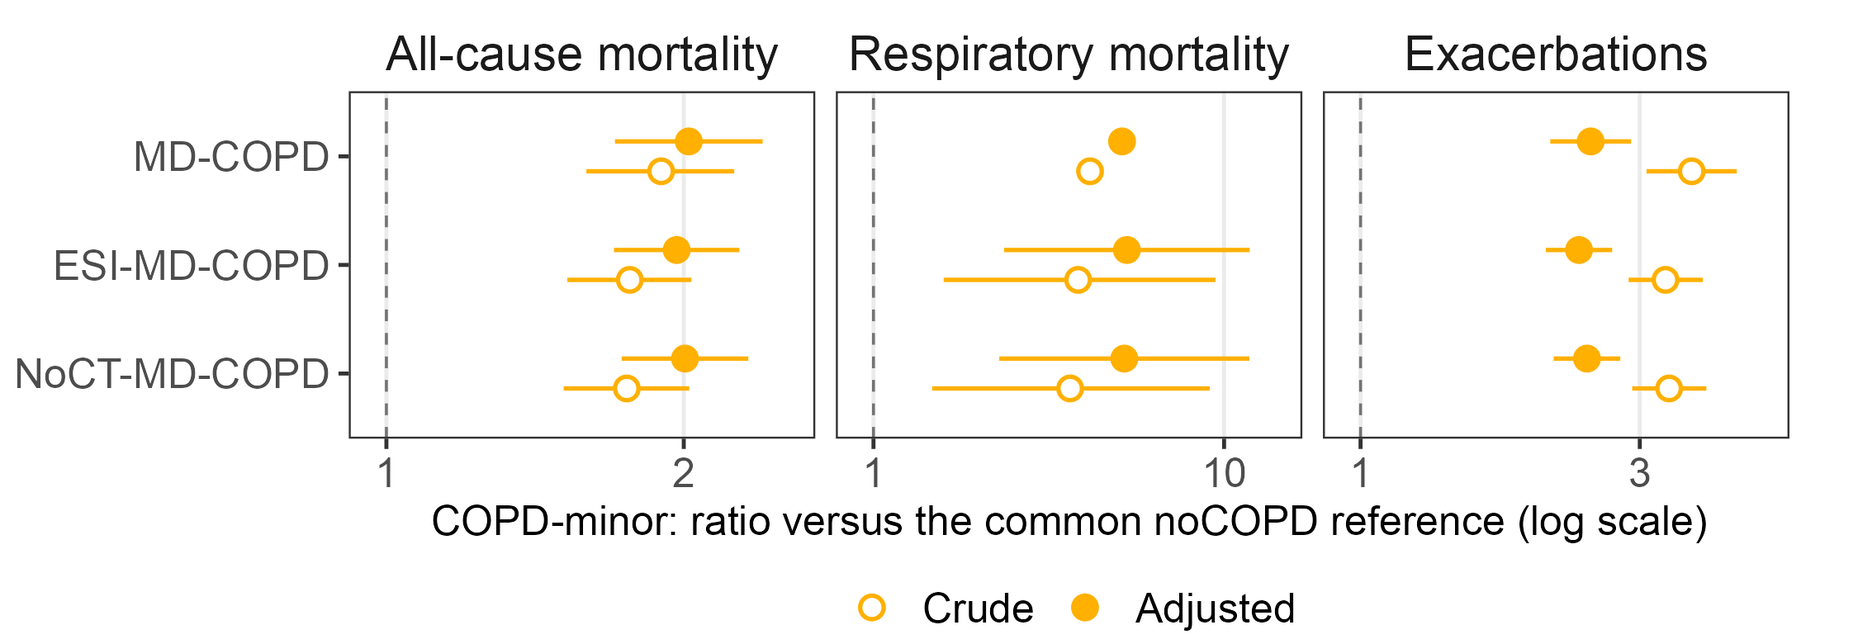
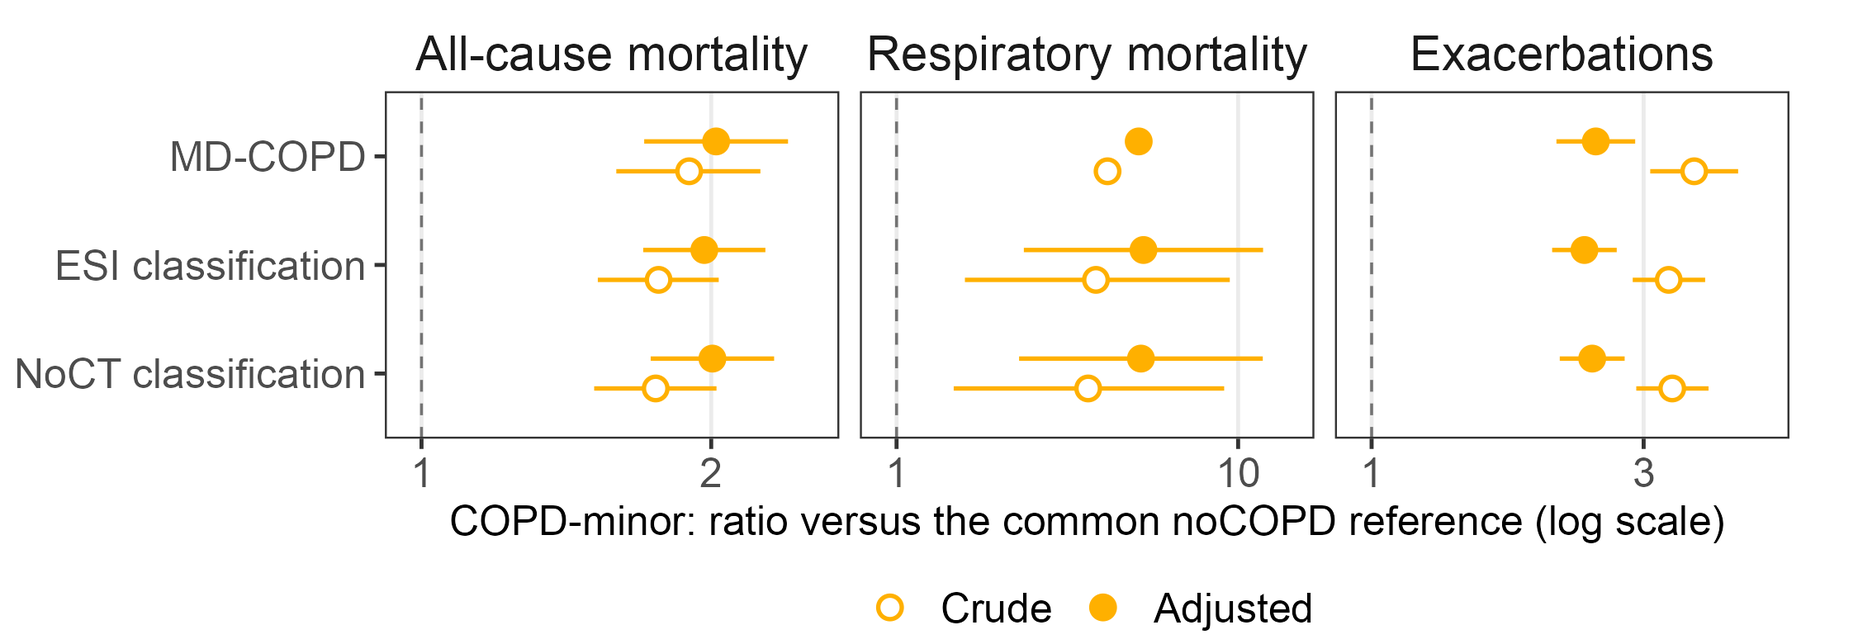
Rename the CT-free classifications: ESI classification, NoCT classification
At Pete's instruction, throughout the manuscript, supplement, tables and
figures. MD-COPD is unchanged.

The old names were proper nouns and the new ones need articles, so this was
not a find-replace. Pairs and lists were rewritten first ("for both the ESI and
NoCT classifications"), then phrases already carrying "classification", then
bare occurrences, which get "the" or, sentence-initially, "The". Every file
asserts no old name survives and no "the the" or "classification
classification" was produced. The first pass tripped that assertion on the
section heading "Cross tabulation of the ESI-MD-COPD and MD-COPD
classifications", which needed its own rule.

Two edits the rename forced in Pete's text: "that ESI-MD-COPD add to" became
"that the ESI classification adds to", and "Since the NoCOPD-MD-COPD subgroup
removes", a typo for NoCT, became "Since the NoCT classification removes".

The old names are now in prose_guard.DELETED, so a future rewrite that
reinstates one fails the build. OWNED fingerprints updated to match.

Both figures re-rendered through the layout validator with the longer labels
and checked visually. Zero old names in either built document.

verify.R: 164 claims, 0 failed. Its claim descriptions still use the old names;
they are internal and do not reach the paper.

diff --git a/ctfree/build_manuscript.py b/ctfree/build_manuscript.py
@@ -49,7 +49,7 @@ N_COL = {"all": "n_mort", "resp": "n_mort", "exac": "n_exac"}
 # Results. They replace the numbered "schema N" labels, which required the
 # reader to hold a lookup table to parse a sentence.
 SCHEMA_NAME = {"S1": "Fixed ratio", "S2": "MD-COPD",
-               "S3": "NoCT-MD-COPD", "S4": "ESI-MD-COPD"}
+               "S3": "NoCT classification", "S4": "ESI classification"}
 
 CLAIM_ID   = re.compile(r"\s*\{[A-Z][A-Za-z0-9-]*(?:,\s*[A-Z][A-Za-z0-9-]*)*\}")
 # Any bracketed bold line is an editorial provenance note, not prose.
@@ -213,9 +213,9 @@ def table1(doc):
          n("S1", "noCOPD"), "—", "—", n("S1", "COPD")],
         ["MD-COPD", "emphysema, wall thickening, dyspnea, SGRQ, chronic bronchitis (≥3)",
          n("S2", "noCOPD"), n("S2", "AFL-only"), n("S2", "COPD-minor"), n("S2", "COPD-major")],
-        ["NoCT-MD-COPD", "dyspnea, SGRQ, chronic bronchitis (≥2)",
+        ["NoCT classification", "dyspnea, SGRQ, chronic bronchitis (≥2)",
          n("S3", "noCOPD"), n("S3", "AFL-only"), n("S3", "COPD-minor"), n("S3", "COPD-major")],
-        ["ESI-MD-COPD", esi_desc,
+        ["ESI classification", esi_desc,
          n("S4", "noCOPD"), n("S4", "AFL-only"), n("S4", "COPD-minor"), n("S4", "COPD-major")]]
     add_table(doc, ["Classification", "Minor criteria", "noCOPD", "AFL-only",
                     "COPD-minor", "COPD-major"],
@@ -224,8 +224,8 @@ def table1(doc):
            f"The four classifications applied to the same {n_total:,} participants. "
            "The major criterion is post-bronchodilator FEV₁/FVC below 0.70 in all "
            "four, so no participant moves between the airflow-limitation categories "
-           "and the preserved-spirometry ones. MD-COPD is the reference NoCT-MD-COPD "
-           "and ESI-MD-COPD are compared against.")
+           "and the preserved-spirometry ones. MD-COPD is the reference the NoCT "
+           "and ESI classifications are compared against.")
 
 
 def table2(doc):
@@ -237,8 +237,8 @@ def table2(doc):
     cell = {(r["schema"], r["row_cat"], r["col_cat"]): int(r["n"]) for r in x}
 
     rows = []
-    for schema, name, f1key in (("S3", "NoCT-MD-COPD", "f1_noct"),
-                                ("S4", "ESI-MD-COPD", "f1_esi")):
+    for schema, name, f1key in (("S3", "NoCT classification", "f1_noct"),
+                                ("S4", "ESI classification", "f1_esi")):
         for i, rc in enumerate(O):
             rows.append([
                 name if i == 0 else "", rc,
@@ -271,7 +271,7 @@ def table3(doc):
     cru = {(r["schema"], r["category"], r["outcome"]): r
            for r in load("consensus_ref_crude.csv")}
     ref = load("consensus_ref_group.csv")[0]
-    NM = {"S2": "MD-COPD", "S3": "NoCT-MD-COPD", "S4": "ESI-MD-COPD"}
+    NM = {"S2": "MD-COPD", "S3": "NoCT classification", "S4": "ESI classification"}
     ORDER = ["AFL-only", "COPD-minor", "COPD-major"]
     FLAG = "\u2020"
 
@@ -327,8 +327,8 @@ def table3(doc):
            "race, current smoking status, pack-years and body mass index, with prior "
            "exacerbation frequency added for exacerbations. Respiratory deaths in "
            f"the AFL-only group were {int(afl['S2']['resp_deaths'])} under MD-COPD, "
-           f"{int(afl['S3']['resp_deaths'])} under NoCT-MD-COPD and "
-           f"{int(afl['S4']['resp_deaths'])} under ESI-MD-COPD. "
+           f"{int(afl['S3']['resp_deaths'])} under the NoCT classification and "
+           f"{int(afl['S4']['resp_deaths'])} under the ESI classification. "
            f"{FLAG} fewer than 10 events in the cell: the point estimate is given "
            "without an interval, which would convey precision the data do not "
            "carry. AFL-only, airflow limitation without other criteria; RR, rate "
@@ -337,7 +337,7 @@ def table3(doc):
 
 
 def table4(doc):
-    """Cross-classification of MD-COPD and ESI-MD-COPD, one panel per stratum.
+    """Cross-classification of MD-COPD and the ESI classification, one panel per stratum.
     The two strata are separate panels rather than one eight-row table because
     the reference group differs between them: participants both classifications
     call noCOPD where spirometry is preserved, and both call AFL-only where it
@@ -394,12 +394,12 @@ def table4(doc):
     pr = {k: load(f)[0] for k, f in
           (("ps", "discord_rates.csv"), ("afl", "discord_rates_afl.csv"))}
     legend(doc, "Table 4.",
-           "Participants cross-classified by MD-COPD and ESI-MD-COPD within each "
+           "Participants cross-classified by MD-COPD and the ESI classification within each "
            "stratum of airflow limitation, the only place the two can disagree. "
            "Among participants with preserved spirometry they disagree about "
            "whether COPD is present; among those with airflow limitation, about "
            "whether a diagnosis is given rather than withheld. CT-only-COPD is "
-           "what ESI-MD-COPD misses and ESI-only-COPD what it adds. All rates are "
+           "what the ESI classification misses and ESI-only-COPD what it adds. All rates are "
            "observed events per 100 person-years. Each panel is estimated against "
            "its own reference row, "
            f"{ref['ps']} and {ref['afl']}, so estimates are comparable within a "
@@ -594,7 +594,7 @@ def main():
              "This is the group a replacement criterion must reach among "
              "participants with preserved spirometry."),
             ("figure4_copdmajor.png", "COPD-major",
-             "Estimates are largest under NoCT-MD-COPD because that "
+             "Estimates are largest under the NoCT classification because that "
              "classification moved 833 of this group's members into AFL-only, "
              "leaving a smaller and more severe group behind.")], start=2):
         add_figure(doc, os.path.join(FIGS, png), f"Figure {i}.",

diff --git a/ctfree/build_supplement.py b/ctfree/build_supplement.py
@@ -121,7 +121,7 @@ def cell_n(rows, schema, row_cat, col_cat):
 def s3_crossclass(doc):
     heading(doc, "Supplemental Table S9. Reclassification against the CT-based framework")
     x = load(ASSETS, "crossclass.csv")
-    nm = {"S3": "NoCT-MD-COPD", "S4": "ESI-MD-COPD"}
+    nm = {"S3": "NoCT classification", "S4": "ESI classification"}
     for s in ("S3", "S4"):
         para(doc, f"**{nm[s]}.** Rows are this classification; columns are MD-COPD.")
         cell = {(r["row_cat"], r["col_cat"]): int(r["n"]) for r in x if r["schema"] == s}
@@ -147,7 +147,7 @@ def s4_fitting(doc):
     heading(doc, "Supplemental Table S10. Fitted rules and cross-validated performance")
     fit = load(ASSETS, "schema_fit.csv")
     cvd = load(ASSETS, "schema_fit_cv_diff.csv")[0]
-    nm = {"S3": "NoCT-MD-COPD", "S4": "ESI-MD-COPD"}
+    nm = {"S3": "NoCT classification", "S4": "ESI classification"}
     rows = [[nm[r["schema"]], f"≥ {int(float(r['k']))}",
              "—" if r["t_low"] in ("", "NA") else f"{float(r['t_low']):.2f}",
              f"{float(r['macroF1_insample']):.4f}",
@@ -221,7 +221,7 @@ def s6_fev1_decline(doc):
     heading(doc, "Supplemental Table S5. Longitudinal FEV\u2081 decline by group")
     rows_in = load(ASSETS, "fev1_decline.csv")
     name = {"S1": "Fixed ratio", "S2": "MD-COPD",
-            "S3": "NoCT-MD-COPD", "S4": "ESI-MD-COPD"}
+            "S3": "NoCT classification", "S4": "ESI classification"}
     rows, seen = [], set()
     for r in rows_in:
         sc = r["schema"]; p_ = float(r["p"])
@@ -293,7 +293,7 @@ def s8_esi_trajectory(doc):
 def s9_paired_bootstrap(doc):
     """Whether the two classifications assign different effect sizes to the
     same category. Adjusted only: the crude comparison is not yet computed."""
-    heading(doc, "Supplemental Table S8. ESI-MD-COPD compared with MD-COPD")
+    heading(doc, "Supplemental Table S8. The ESI classification compared with MD-COPD")
     rows, seen = [], set()
     label = {"all-cause mortality": "All-cause mortality",
              "respiratory mortality": "Respiratory mortality",
@@ -310,7 +310,7 @@ def s9_paired_bootstrap(doc):
                     "P", "Resamples"],
               rows, [1.52, 1.14, 2.08, 0.86, 0.90])
     legend(doc, "Table S8.",
-           "Ratio of the adjusted effect size ESI-MD-COPD assigns to a category "
+           "Ratio of the adjusted effect size the ESI classification assigns to a category "
            "to the one MD-COPD assigns to the same category. Participants were "
            "resampled and both classifications refitted within every resample, so "
            "each pair of estimates comes from the same people; the interval and P "

diff --git a/ctfree/prose_guard.py b/ctfree/prose_guard.py
@@ -24,6 +24,12 @@ DELETED = {
         "already defined in Methods and in Table 1.",
     "rather than as COPD versus no COPD":
         "2026-09-08, Methods, agreement sentence.",
+    "ESI-MD-COPD":
+        "2026-09-10, renamed throughout to 'the ESI classification'.",
+    "NoCT-MD-COPD":
+        "2026-09-10, renamed throughout to 'the NoCT classification'.",
+    "NoCOPD-MD-COPD":
+        "2026-09-10, a typo for NoCT-MD-COPD; now 'the NoCT classification'.",
     "This reference is smaller and at lower risk than any single "
     "classification's own noCOPD group":
         "2026-09-08, common-reference setup paragraph.",
@@ -70,11 +76,11 @@ OWNED = {
             "The MD-COPD classification improves on the fixed ratio, because it "
             "provides better alignment between COPD diagnosis and prospective risk",
         "cross-tabulation opening (2026-09-08 20:56)":
-            "Since the NoCOPD-MD-COPD subgroup removes the COPD label from a "
+            "Since the NoCT classification removes the COPD label from a "
             "high-risk subset of subjects, we focused subsequent comparisons on "
-            "the ESI-MD-COPD classification compared to MD-COPD",
+            "the ESI classification compared to MD-COPD",
         "AFL-only outcomes (2026-09-08 20:56)":
-            "For the AFL-only group in the ESI-MD-COPD classification, risk for "
+            "For the AFL-only group in the ESI classification, risk for "
             "all-cause and respiratory mortality was not significantly different "
             "from the common reference group without COPD",
     },

diff --git a/ctfree/RESULTS.md b/ctfree/RESULTS.md
@@ -12,28 +12,28 @@ Across the entire cohort, ESI showed significant associations with quantitative 
 
 ## Selection of diagnostic thresholds for the CT-free classifications
 
-Both CT-free classifications required a threshold for the number of minor criteria sufficient for the COPD-minor pathway, and ESI-MD-COPD additionally required an ESI threshold. We explored multiple measures for identifying optimal threshold values, evaluating their performance using five-fold cross validation. Our final thresholds were based on the macro-F1 measure, which had the desirable effect of giving equal importance to correct assignment for each of the four groups despite the large difference in sample size between groups (Supplemental Table S3). The selected rules assigned COPD-minor at ≥ 2 minor criteria for both ESI-MD-COPD and NoCT-MD-COPD, and the optimal ESI threshold for recovery of MD-COPD subgroups was ≥ 1.50.
+Both CT-free classifications required a threshold for the number of minor criteria sufficient for the COPD-minor pathway, and the ESI classification additionally required an ESI threshold. We explored multiple measures for identifying optimal threshold values, evaluating their performance using five-fold cross validation. Our final thresholds were based on the macro-F1 measure, which had the desirable effect of giving equal importance to correct assignment for each of the four groups despite the large difference in sample size between groups (Supplemental Table S3). The selected rules assigned COPD-minor at ≥ 2 minor criteria for both the ESI and NoCT classifications, and the optimal ESI threshold for recovery of MD-COPD subgroups was ≥ 1.50.
 
 
 ## Agreement between MD-COPD and CT-free classifications
 
-The cross-classification between MD-COPD and the two CT-free classifications is shown in Figure 1, and overall the ESI-MD-COPD classification correctly classified 87.9% of subjects compared to 83.9% for the NoCT-MD-COPD classification (p<0.005). Table 2 shows the diagnostic pathway level cross-classification. Both classifications had excellent agreement with MD-COPD for the no COPD and COPD major pathway groups (>98% accuracy for both), but agreement was weaker for the COPD minor and airflow limitation only (AFL-only) pathways. For COPD minor, the ESI-based and NoCT classifications had 54% and 56% accuracy, respectively (p<0.005). For AFL-only, ESI-MD-COPD outperformed the NoCT-MD-COPD classification (36% versus 25% accuracy, p<0.005), but both groups assigned substantially more subjects to AFL-only than the MD-COPD classification. For NoCT-MD-COPD, no threshold could recover the participants with airflow limitation whose only minor criterion was a CT finding.
+The cross-classification between MD-COPD and the two CT-free classifications is shown in Figure 1, and overall the ESI classification correctly classified 87.9% of subjects compared to 83.9% for the NoCT classification (p<0.005). Table 2 shows the diagnostic pathway level cross-classification. Both classifications had excellent agreement with MD-COPD for the no COPD and COPD major pathway groups (>98% accuracy for both), but agreement was weaker for the COPD minor and airflow limitation only (AFL-only) pathways. For COPD minor, the ESI-based and NoCT classifications had 54% and 56% accuracy, respectively (p<0.005). For AFL-only, the ESI classification outperformed the NoCT classification (36% versus 25% accuracy, p<0.005), but both groups assigned substantially more subjects to AFL-only than the MD-COPD classification. For the NoCT classification, no threshold could recover the participants with airflow limitation whose only minor criterion was a CT finding.
 
 
 ## Clinical outcomes by diagnostic group
 
-The MD-COPD classification improves on the fixed ratio, because it provides better alignment between COPD diagnosis and prospective risk of mortality and respiratory exacerbations, removing the COPD label from a subset of individuals with low-risk despite the presence of airflow obstruction and adding the label to high-risk smokers with fixed ratio ≥ 0.7. To determine whether ESI-MD-COPD and NoCT-MD-COPD retained this property, we compared the risk of mortality and exacerbations for the AFL-only, COPD-minor and COPD-major groups across the three multidimensional classifications. To ensure comparable assessment, we defined a noCOPD group that consisted of subjects assigned as noCOPD by all three methods (Figure 2 and Table 3).
+The MD-COPD classification improves on the fixed ratio, because it provides better alignment between COPD diagnosis and prospective risk of mortality and respiratory exacerbations, removing the COPD label from a subset of individuals with low-risk despite the presence of airflow obstruction and adding the label to high-risk smokers with fixed ratio ≥ 0.7. To determine whether the ESI and NoCT classifications retained this property, we compared the risk of mortality and exacerbations for the AFL-only, COPD-minor and COPD-major groups across the three multidimensional classifications. To ensure comparable assessment, we defined a noCOPD group that consisted of subjects assigned as noCOPD by all three methods (Figure 2 and Table 3).
 
-For the AFL-only group in the ESI-MD-COPD classification, risk for all-cause and respiratory mortality was not significantly different from the common reference group without COPD (Table 3, p>0.05 for crude and adjusted hazard ratios), and there was a modest increase in risk for respiratory exacerbations (adjusted IRR for MD-COPD 1.36, CI 1.08 - 1.73 and for ESI-MD-COPD IRR 1.25, CI 1.05 - 1.50). Under the NoCT-MD-COPD classification, this group carried substantially elevated risk on every outcome (p<0.005 for all-cause mortality, respiratory mortality, and respiratory exacerbations). This demonstrates that removing the CT criteria results in an AFL-only group that is contaminated by individuals at elevated risk of COPD-related outcomes.
+For the AFL-only group in the ESI classification, risk for all-cause and respiratory mortality was not significantly different from the common reference group without COPD (Table 3, p>0.05 for crude and adjusted hazard ratios), and there was a modest increase in risk for respiratory exacerbations (adjusted IRR for MD-COPD 1.36, CI 1.08 - 1.73 and for the ESI classification IRR 1.25, CI 1.05 - 1.50). Under the NoCT classification, this group carried substantially elevated risk on every outcome (p<0.005 for all-cause mortality, respiratory mortality, and respiratory exacerbations). This demonstrates that removing the CT criteria results in an AFL-only group that is contaminated by individuals at elevated risk of COPD-related outcomes.
 
-For the COPD minor pathway group, the three multidimensional classifications had similar risk profiles with no significant differences in crude or adjusted risk of all three outcomes (Figure 3, Table 3). For the COPD major pathway group, risk was the highest under every classification, and the estimates were largest for NoCT-MD-COPD on all three outcomes (Figure 4, Table 3). This is a consequence of the previously described AFL-only misclassification, because the 833 misclassified AFL-only participants for NoCT-MD-COPD carry an elevated risk for mortality and exacerbations that is higher than NoCOPD subjects but lower than COPD major pathway subjects, simultaneously contaminating the AFL-only group and resulting in a smaller but higher risk COPD major pathway subset. For example, 32 of the 34 respiratory deaths observed in this AFL-only group were from subjects who would have been diagnosed under the COPD major pathway under the MD-COPD classification.
+For the COPD minor pathway group, the three multidimensional classifications had similar risk profiles with no significant differences in crude or adjusted risk of all three outcomes (Figure 3, Table 3). For the COPD major pathway group, risk was the highest under every classification, and the estimates were largest for the NoCT classification on all three outcomes (Figure 4, Table 3). This is a consequence of the previously described AFL-only misclassification, because the 833 misclassified AFL-only participants for the NoCT classification carry an elevated risk for mortality and exacerbations that is higher than NoCOPD subjects but lower than COPD major pathway subjects, simultaneously contaminating the AFL-only group and resulting in a smaller but higher risk COPD major pathway subset. For example, 32 of the 34 respiratory deaths observed in this AFL-only group were from subjects who would have been diagnosed under the COPD major pathway under the MD-COPD classification.
 
-Finally, we estimated annualized change in FEV₁ for every group against the same common reference, adjusting for multiple covariates including baseline post-bronchodilator FEV₁. There were no significant differences between the three multidimensional classifications for this outcome, and COPD-major declined faster than the reference group under all three, by 5.5, 5.3 and 5.1 mL/yr under MD-COPD, NoCT-MD-COPD and ESI-MD-COPD (Supplemental Table S5). The three multidimensional classifications did not separate from each other on this outcome.
+Finally, we estimated annualized change in FEV₁ for every group against the same common reference, adjusting for multiple covariates including baseline post-bronchodilator FEV₁. There were no significant differences between the three multidimensional classifications for this outcome, and COPD-major declined faster than the reference group under all three, by 5.5, 5.3 and 5.1 mL/yr under MD-COPD, the NoCT classification and the ESI classification (Supplemental Table S5). The three multidimensional classifications did not separate from each other on this outcome.
 
 
-## Cross tabulation of the ESI-MD-COPD and MD-COPD classifications
+## Cross tabulation of the ESI and MD-COPD classifications
 
-Since the NoCOPD-MD-COPD subgroup removes the COPD label from a high-risk subset of subjects, we focused subsequent comparisons on the ESI-MD-COPD classification compared to MD-COPD. Because all classifications share the same major criterion, MD-COPD and ESI-MD-COPD can disagree only by minor criteria, meaning that their disagreement is best observed within strata of obstructed and non-obstructed subjects. We therefore cross-tabulated the two classifications within subjects with preserved spirometry and those with airflow obstruction, giving four groups in each (Table 4).
+Since the NoCT classification removes the COPD label from a high-risk subset of subjects, we focused subsequent comparisons on the ESI classification compared to MD-COPD. Because all classifications share the same major criterion, MD-COPD and the ESI classification can disagree only by minor criteria, meaning that their disagreement is best observed within strata of obstructed and non-obstructed subjects. We therefore cross-tabulated the two classifications within subjects with preserved spirometry and those with airflow obstruction, giving four groups in each (Table 4).
 
 In the preserved-spirometry subgroup (n = 5,156), 72.6% of participants were classified as noCOPD by both classifications, 14.1% as COPD by both, 11.9% by ESI alone and 1.4% by CT alone. CT-only-COPD participants showed a higher prevalence of visually assessed emphysema, although groups did not have significant differences in CT quantitative emphysema. In contrast, ESI-only-COPD participants showed higher ESI values, while having no visual emphysema. Interestingly, this group did have nominally higher levels of quantitative emphysema than the CT-only group (Figure X).
 

diff --git a/ctfree/DISCUSSION.md b/ctfree/DISCUSSION.md
@@ -5,15 +5,15 @@ paragraph here; edit it in place or replace it with a version he supplies.)*
 
 In this study, we sought to establish a multidimensional COPD classification that retains the advantages of the MD-COPD classification over the fixed ratio but that can also be deployed in the absence of chest CT data. We observed that this is achievable through use of the ESI, a descriptor derived from the morphology of the expiratory flow-volume curve that does not depend on ethnic or anthropometric reference equations. This paper has three main findings. First, the ESI-based reformulation preserves most of the advantages of the CT-based framework for mortality and exacerbations, generating a classification with comparable prognostic associations. Second, it is necessary to have ESI or some other effective surrogate for structural lung disease in a multidimensional classification. Otherwise, individuals with airflow obstruction and unrepresented emphysema or airway wall thickening will be misclassified and contaminate the AFL-only group, leading to a harmful underdiagnosis of individuals at high risk of COPD-related complications. Third, the benefit of ESI is primarily in improving the classification of individuals with spirometric obstruction, where ESI is a better surrogate for CT measures.
 
-One of the advantages of the MD-COPD classification is in the reclassification of subjects with spirometric obstruction but no CT minor criteria into the no COPD category. The original MD-COPD classification demonstrated that this group did not have increased risk for overall or respiratory mortality, so proper reconstruction of the AFL-only group is one of the major areas where a CT-free classification succeeds or fails since the AFL-only group is defensible only while the participants in it are genuinely at low risk. This study shows that removing the CT criteria without an adequate surrogate, moves a substantial number of higher risk subjects into the AFL-only pathway, contaminating this low-risk group. This finding is consistent with prior observations visually assessed emphysema is associated with mortality in this cohort (19). The fat that the ESI-MD-COPD classification successfully preserves AFL-only as a lower risk group means that multidimensional COPD classification with ESI in place of CT measures can still improve diagnostic specificity by distinguishing isolated airflow limitation from broader disease expression characterized by structural, spirometric, or symptomatic abnormalities.
+One of the advantages of the MD-COPD classification is in the reclassification of subjects with spirometric obstruction but no CT minor criteria into the no COPD category. The original MD-COPD classification demonstrated that this group did not have increased risk for overall or respiratory mortality, so proper reconstruction of the AFL-only group is one of the major areas where a CT-free classification succeeds or fails since the AFL-only group is defensible only while the participants in it are genuinely at low risk. This study shows that removing the CT criteria without an adequate surrogate, moves a substantial number of higher risk subjects into the AFL-only pathway, contaminating this low-risk group. This finding is consistent with prior observations visually assessed emphysema is associated with mortality in this cohort (19). The fat that the ESI classification successfully preserves AFL-only as a lower risk group means that multidimensional COPD classification with ESI in place of CT measures can still improve diagnostic specificity by distinguishing isolated airflow limitation from broader disease expression characterized by structural, spirometric, or symptomatic abnormalities.
 
-The ESI-based reformulation demonstrated high agreement with the CT-based classification and maintained similar relationships with mortality and exacerbation risk, and its disagreements with that classification carry clinically relevant information rather than representing simple error. Within the preserved-spirometry subgroup, participants classified as COPD by both approaches experienced the highest observed event rates, whereas the discordant groups showed intermediate rates. The 612 participants that ESI-MD-COPD add to the COPD-minor pathway do carry an adjusted all-cause hazard ratio of 1.59 (1.30 to 1.95) against participants both classifications call noCOPD, approaching the 1.94 (1.62 to 2.32) of participants both call COPD, while the 70 it misses are few and show no excess mortality. These discordant patterns should therefore not simply be viewed as false positive or false negative classifications, but as examples of the different biological information provided by structural imaging and ESI-based spirometric assessment.
+The ESI-based reformulation demonstrated high agreement with the CT-based classification and maintained similar relationships with mortality and exacerbation risk, and its disagreements with that classification carry clinically relevant information rather than representing simple error. Within the preserved-spirometry subgroup, participants classified as COPD by both approaches experienced the highest observed event rates, whereas the discordant groups showed intermediate rates. The 612 participants that the ESI classification adds to the COPD-minor pathway do carry an adjusted all-cause hazard ratio of 1.59 (1.30 to 1.95) against participants both classifications call noCOPD, approaching the 1.94 (1.62 to 2.32) of participants both call COPD, while the 70 it misses are few and show no excess mortality. These discordant patterns should therefore not simply be viewed as false positive or false negative classifications, but as examples of the different biological information provided by structural imaging and ESI-based spirometric assessment.
 
 CT and spirometry interrogate different aspects of the disease process. Chest CT directly visualizes structural abnormalities, including parenchymal destruction and airway changes (18), whereas ESI reflects the integrated physiological consequences of these abnormalities on expiratory flow generation. Loss of elastic recoil, small airway dysfunction, and heterogeneous regional abnormalities may all contribute to alterations in the shape of the expiratory flow-volume curve (22–24). The objective of this spirometric representation is therefore not to reproduce CT morphology, but to capture the functional consequences of structural abnormalities that determine clinical expression and prognosis. That relationship is not uniform across the disease spectrum. Associations between ESI and quantitative CT emphysema were weak among individuals with minimal structural abnormalities, and substantially stronger among participants with established airflow obstruction. The same pattern governs where an ESI criterion helps: ESI discriminated visual emphysema and airway wall thickening among participants with airflow limitation but not among those with preserved spirometry, where its area under the curve fell from 0.75 and 0.76 to 0.56 and 0.61, respectively. Imperfect correlation between CT and ESI shows that anatomical and spirometric measurements capture overlapping but distinct dimensions of COPD.
 
 Another distinctive feature of ESI is its independence from acute bronchodilator response. In the present cohort, ESI was essentially unchanged after bronchodilation (mean ΔESI = −0.09), extending previous observations reported in a small COPD population (25). This stability suggests that spirometric curve morphology captures mechanical properties of the respiratory system that are not substantially influenced by reversible changes in airway caliber. This characteristic may be clinically relevant because bronchodilator responsiveness in COPD is variable over time and may introduce uncertainty when used to define stable disease characteristics (26). Together with its independence from reference equations, this makes ESI a better candidate for a structural criterion than a conventional spirometric index such as FEV₁ percent predicted, which would carry both dependencies into the classification.
 
-These findings have important practical implications. Because there are many settings in which chest CT is not readily available, the ESI-MD-COPD classification allows for multidimensional CT classification to be performed wherever spirometry and symptom assessment can be performed, including many clinical settings, large epidemiological studies, and clinical trials. Rather than replacing CT, this approach provides a practical strategy for extending multidimensional COPD assessment, including some resource-poor settings.
+These findings have important practical implications. Because there are many settings in which chest CT is not readily available, the ESI classification allows for multidimensional CT classification to be performed wherever spirometry and symptom assessment can be performed, including many clinical settings, large epidemiological studies, and clinical trials. Rather than replacing CT, this approach provides a practical strategy for extending multidimensional COPD assessment, including some resource-poor settings.
 
 This study has several limitations. Although the ESI-based framework preserved the diagnostic and prognostic performance of the multidimensional classification, no single physiological descriptor can be expected to capture every aspect of CT-defined structural abnormalities. In particular, because ESI was originally developed to reflect the physiological consequences of emphysema, airway-predominant structural abnormalities with relatively limited emphysema may be less completely represented, and agreement is weakest for the COPD-minor pathway. The threshold values used to represent the CT-defined structural component were derived within the COPDGene cohort and require prospective validation in independent populations; the count threshold of two was selected by an objective model-fitting process, but it departs from the original framework. The present study was designed to reproduce the MD-COPD framework and therefore compared ESI with the visually assessed CT structural criteria used in that framework rather than with quantitative CT phenotyping approaches. Respiratory deaths are few in the low-risk groups, so several respiratory estimates rest on single-figure event counts. Accordingly, all observations based on fewer than 10 events are reported without confidence intervals and flagged as such.
 

diff --git a/ctfree/METHODS.md b/ctfree/METHODS.md
@@ -5,7 +5,7 @@ paragraph here; edit it in place or replace it with a version he supplies.)*
 
 ## Study design
 
-The study examined whether the diagnostic benefit of the MD-COPD framework over the fixed ratio can be preserved when chest CT is unavailable. Three classifications were compared against MD-COPD: the fixed ratio alone, NoCT-MD-COPD, in which the CT criteria are removed, and ESI-MD-COPD, in which they are replaced by the Emphysema Severity Index (ESI).
+The study examined whether the diagnostic benefit of the MD-COPD framework over the fixed ratio can be preserved when chest CT is unavailable. Three classifications were compared against MD-COPD: the fixed ratio alone, the NoCT classification, in which the CT criteria are removed, and the ESI classification, in which they are replaced by the Emphysema Severity Index (ESI).
 
 
 ## Study population
@@ -22,12 +22,12 @@ ESI was calculated from absolute values of standard spirometric measurements, in
 
 The MD-COPD framework (11) integrates three domains: spirometric airflow obstruction, respiratory symptoms, and CT-defined structural abnormalities. The major diagnostic criterion is post-bronchodilator FEV₁/FVC below 0.70. Five minor criteria comprise two structural criteria, visual emphysema (Fleischner assessment at least mild) and airway wall thickening (Fleischner assessment definite thickening) (18), together with three symptom criteria: modified Medical Research Council (mMRC) dyspnea score of 2 or greater, St. George's Respiratory Questionnaire (SGRQ) total score of 25 or greater, and chronic bronchitis. Participants meeting the major criterion together with at least one minor criterion are classified as COPD major pathway; participants meeting at least three of five minor criteria without the major criterion are classified as COPD minor pathway; participants meeting the major criterion alone are classified as Airflow Limitation (AFL)-only-noCOPD; and the remaining participants are classified as noCOPD. In participants with a comorbid cardiac condition, specifically coronary artery disease or congestive heart failure, whose symptoms may be explained as well or better by that condition, two of the three minor criteria required for the COPD minor pathway must be imaging-based.
 
-Fixed ratio uses traditional COPD spirometric definition of post-bronchodilator FEV₁/FVC < 0.70. The NoCT-MD-COPD classification drops the two CT criteria and keeps dyspnea, SGRQ and chronic bronchitis. Since the two CT minor criteria are not available for this classification, the number of criteria needed for a COPD-minor pathway diagnosis is reduced from 3 to 2. The ESI-MD-COPD classification replaces the two CT criteria with a single ESI criterion, and 2 minor criteria are necessary for the COPD-minor pathway diagnosis. Participants with airflow limitation are therefore COPD-major or AFL-only under every classification, and participants without it are COPD-minor or noCOPD. Every disagreement between classifications comes from the minor criteria.
+Fixed ratio uses traditional COPD spirometric definition of post-bronchodilator FEV₁/FVC < 0.70. The NoCT classification drops the two CT criteria and keeps dyspnea, SGRQ and chronic bronchitis. Since the two CT minor criteria are not available for this classification, the number of criteria needed for a COPD-minor pathway diagnosis is reduced from 3 to 2. The ESI classification replaces the two CT criteria with a single ESI criterion, and 2 minor criteria are necessary for the COPD-minor pathway diagnosis. Participants with airflow limitation are therefore COPD-major or AFL-only under every classification, and participants without it are COPD-minor or noCOPD. Every disagreement between classifications comes from the minor criteria.
 
 
 ## Determination of diagnostic thresholds for comparator classifications
 
-For the NoCT-MD-COPD and ESI-MD-COPD classifications, thresholds needed to be determined for the number of minor criteria necessary for the COPD-minor pathway, and for ESI-MD-COPD an ESI threshold needed to be determined for its use as a minor criterion. The objective of the fitting process was to approximate the MD-COPD labels as closely as possible. We explored thresholds using Cohen's κ, mean per-category sensitivity, and macro-averaged F1 as the selection criteria. Threshold selection used the MD-COPD labels only with five-fold cross validation to assess the recovery of the original labels. The difference in held-out macro-averaged F1 between the two CT-free classifications was tested with the corrected resampled t-test, which inflates the variance of the per-fold differences to account for the training sets shared between cross-validation folds. Mortality and exacerbation data were not considered for the threshold selection. Final thresholds were based on macro-averaged F1.
+For the NoCT and ESI classifications, thresholds needed to be determined for the number of minor criteria necessary for the COPD-minor pathway, and for the ESI classification an ESI threshold needed to be determined for its use as a minor criterion. The objective of the fitting process was to approximate the MD-COPD labels as closely as possible. We explored thresholds using Cohen's κ, mean per-category sensitivity, and macro-averaged F1 as the selection criteria. Threshold selection used the MD-COPD labels only with five-fold cross validation to assess the recovery of the original labels. The difference in held-out macro-averaged F1 between the two CT-free classifications was tested with the corrected resampled t-test, which inflates the variance of the per-fold differences to account for the training sets shared between cross-validation folds. Mortality and exacerbation data were not considered for the threshold selection. Final thresholds were based on macro-averaged F1.
 
 
 ## Clinical outcomes

diff --git a/ctfree/ABSTRACT.md b/ctfree/ABSTRACT.md
@@ -7,8 +7,8 @@ Rationale. A multidimensional diagnostic framework for COPD (MD-COPD) combining 
 
 Objective. To determine whether the diagnostic benefit of MD-COPD over the fixed ratio can be preserved without chest CT, and whether the Emphysema Severity Index (ESI), a spirometric measure derived from the shape of the expiratory flow-volume curve, can substitute for the CT criteria.
 
-Methods. Among 9,240 ever-smokers in COPDGene we compared four classifications of the same participants: the fixed ratio; MD-COPD as published; NoCT-MD-COPD, a modified classification with the two CT criteria removed; and ESI-MD-COPD, with an ESI criterion in their place. Thresholds for the two modified classifications were fitted to reproduce the MD-COPD categories. Outcomes were all-cause mortality, respiratory mortality, prospective exacerbations, and FEV₁ decline.
+Methods. Among 9,240 ever-smokers in COPDGene we compared four classifications of the same participants: the fixed ratio; MD-COPD as published; the NoCT classification, a modified classification with the two CT criteria removed; and the ESI classification, with an ESI criterion in their place. Thresholds for the two modified classifications were fitted to reproduce the MD-COPD categories. Outcomes were all-cause mortality, respiratory mortality, prospective exacerbations, and FEV₁ decline.
 
-Results. Overall, the ESI-MD-COPD classification correctly classified 87.9% of subjects compared to 83.9% for the NoCT-MD-COPD classification (p<0.005), and substituting an ESI threshold for CT visual emphysema and airway wall thickening preserved most of the clinical associations previously reported for MD-COPD categories. Analysis of membership in each of the four MD-COPD diagnostic pathways showed that, relative to the NoCT-MD-COPD classification, most of the improvement of the ESI-based classification was in the classification for subjects with airflow limitation and COPD (COPD major pathway, subgroup F1 score 0.94 vs 0.88, P < 0.001) and subjects with airflow limitation but no minor diagnostic criteria (airflow limitation only, AFL-only, F1 score 0.47 vs 0.40, P < 0.001). When compared against a common reference set of subjects without COPD, the ESI-based classification closely mirrored the risk profile of the MD-COPD diagnostic pathway groups, but the NoCT-MD-COPD classification produced an AFL-only subset with markedly increased risk of COPD-related outcomes for all-cause mortality (crude rate ratio 1.6, 95% CI: 1.3 - 1.8); for respiratory mortality (crude RR 10.0, CI 4.9 - 21.9); and for respiratory exacerbations (crude incidence ratio 1.75, CI 1.46 - 2.03).
+Results. Overall, the ESI classification correctly classified 87.9% of subjects compared to 83.9% for the NoCT classification (p<0.005), and substituting an ESI threshold for CT visual emphysema and airway wall thickening preserved most of the clinical associations previously reported for MD-COPD categories. Analysis of membership in each of the four MD-COPD diagnostic pathways showed that, relative to the NoCT classification, most of the improvement of the ESI-based classification was in the classification for subjects with airflow limitation and COPD (COPD major pathway, subgroup F1 score 0.94 vs 0.88, P < 0.001) and subjects with airflow limitation but no minor diagnostic criteria (airflow limitation only, AFL-only, F1 score 0.47 vs 0.40, P < 0.001). When compared against a common reference set of subjects without COPD, the ESI-based classification closely mirrored the risk profile of the MD-COPD diagnostic pathway groups, but the NoCT classification produced an AFL-only subset with markedly increased risk of COPD-related outcomes for all-cause mortality (crude rate ratio 1.6, 95% CI: 1.3 - 1.8); for respiratory mortality (crude RR 10.0, CI 4.9 - 21.9); and for respiratory exacerbations (crude incidence ratio 1.75, CI 1.46 - 2.03).
 
 Conclusions. Many of the advantages of a multidimensional framework over the fixed ratio can be preserved without ESI measures replacing chest CT criteria, but not by symptom criteria alone.

diff --git a/ctfree/figures/figure1_flow_legend.md b/ctfree/figures/figure1_flow_legend.md
@@ -1,3 +1,3 @@
 **Figure 1. Reclassification of the MD-COPD categories when chest CT is unavailable.**
 
-Participants are shown under MD-COPD (centre) and under each CT-free alternative: NoCT-MD-COPD (left) and ESI-MD-COPD (right). Both derive from the central reference. Ribbons are coloured by MD-COPD category; solid ribbons change category under that alternative and pale ribbons agree. 7,753 of 9,240 participants (83.9%) keep their category without CT and 8,126 (87.9%) with ESI. The difference is concentrated in COPD-major, of whom 833 are reclassified as AFL-only-noCOPD without CT against 350 with ESI. Strata smaller than 3.5% of the cohort are left unlabelled.
+Participants are shown under MD-COPD (centre) and under each CT-free alternative: the NoCT classification (left) and the ESI classification (right). Both derive from the central reference. Ribbons are coloured by MD-COPD category; solid ribbons change category under that alternative and pale ribbons agree. 7,753 of 9,240 participants (83.9%) keep their category without CT and 8,126 (87.9%) with ESI. The difference is concentrated in COPD-major, of whom 833 are reclassified as AFL-only without CT against 350 with ESI. Strata smaller than 3.5% of the cohort are left unlabelled.
